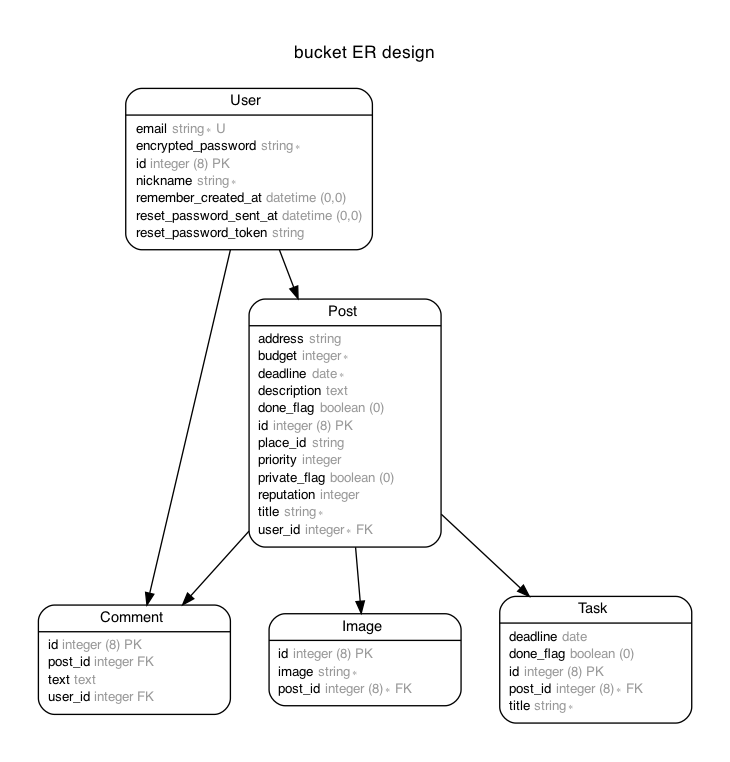
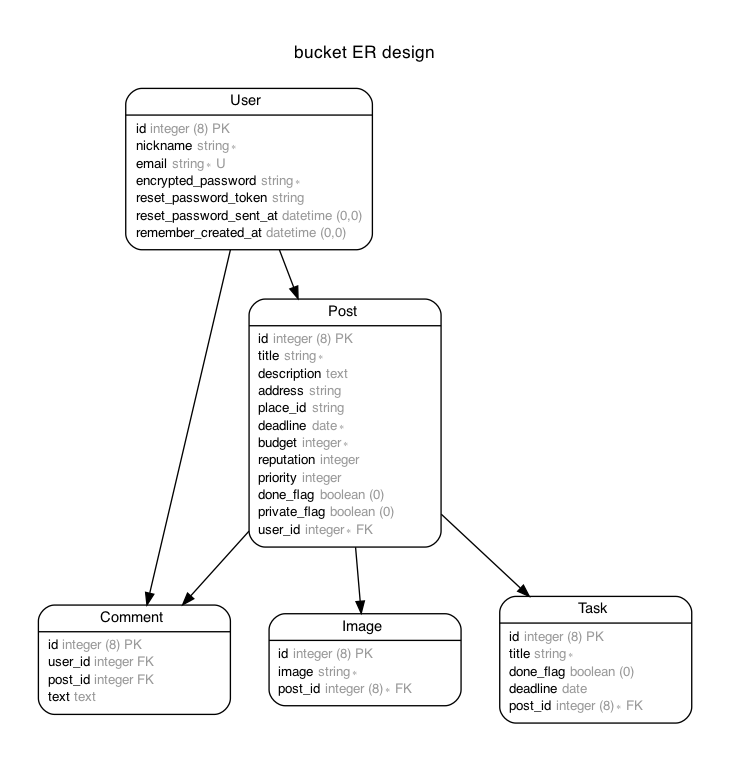
gem 'pry-byebug' + 微修正
■実装内容
・erdのソート廃止
・cssでの画像サイズ調整
・gem 'pry-byebug'

diff --git a/app/assets/stylesheets/modules/post/_new.scss b/app/assets/stylesheets/modules/post/_new.scss
@@ -51,7 +51,7 @@
           line-height: 150px;
           text-align: center;
           .input_images{
-            max-width: 200px;
+            max-width: 100%;
             max-height: 150px;
           }
           .image-remove{

diff --git a/app/controllers/users_controller.rb b/app/controllers/users_controller.rb
@@ -43,7 +43,6 @@ class UsersController < ApplicationController
     @user = User.find(params[:id])
   end
 
-
   def set_category_tags_to_gon
     # TODO:多階層カテゴリの実現およびcssの編集
     # TODO:モデルに記述？
